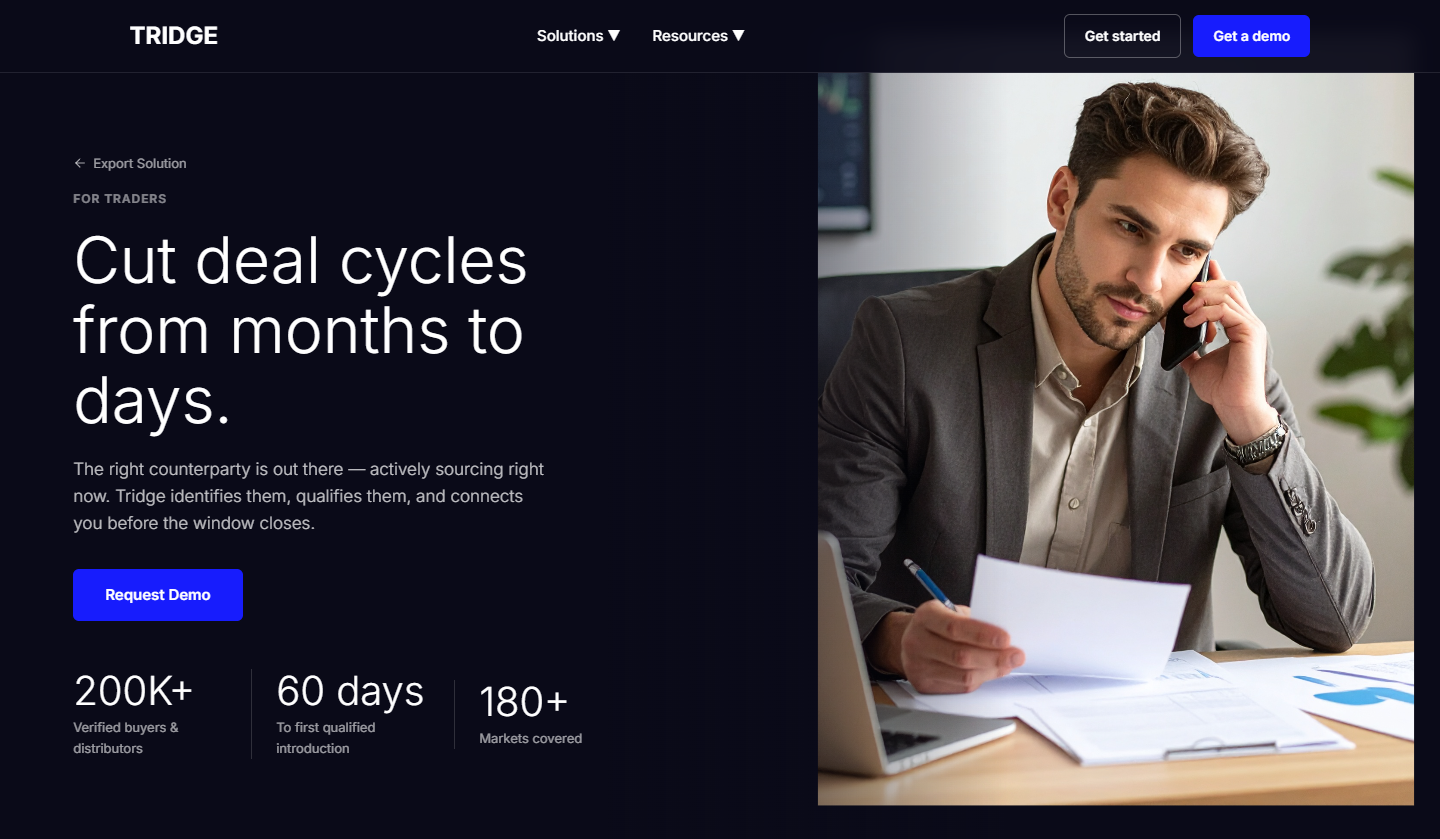
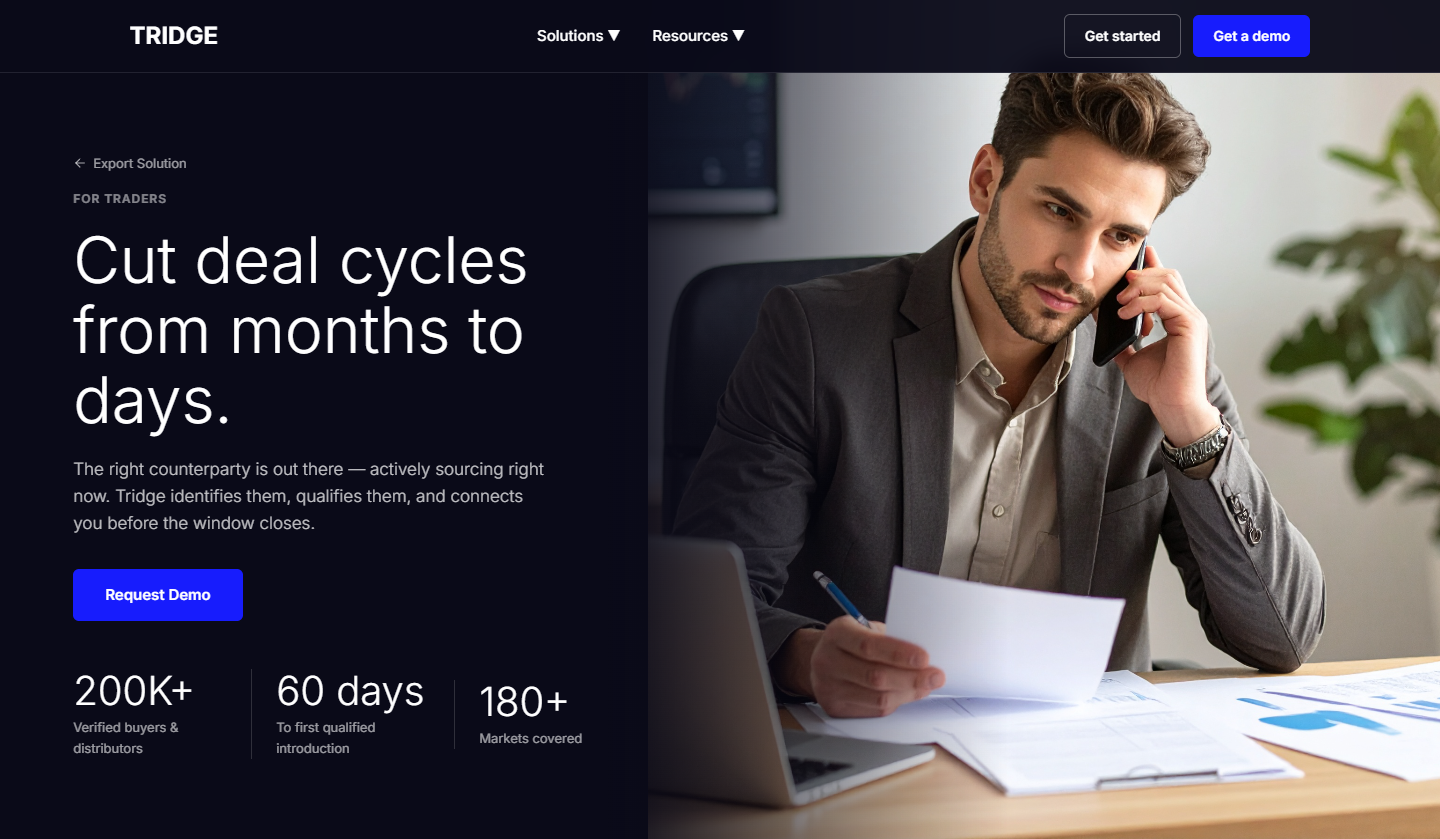
Fix hero image layout to match export-suppliers.html

diff --git a/export-traders.html b/export-traders.html
@@ -189,12 +189,10 @@
     .hero-nm-img {
       position: absolute;
       right: 0; top: 0; bottom: 0;
-      width: 45%;
+      width: 55%;
       height: 100%;
       object-fit: cover;
-      object-position: center center;
-      transform: scale(0.92);
-      transform-origin: center center;
+      object-position: center;
       z-index: 0;
     }
 
@@ -214,7 +212,7 @@
 
     .hero-nm-inner {
       display: grid;
-      grid-template-columns: 55% 45%;
+      grid-template-columns: 50% 50%;
       align-items: center;
       padding: clamp(48px, 6vw, 80px) 0;
     }
